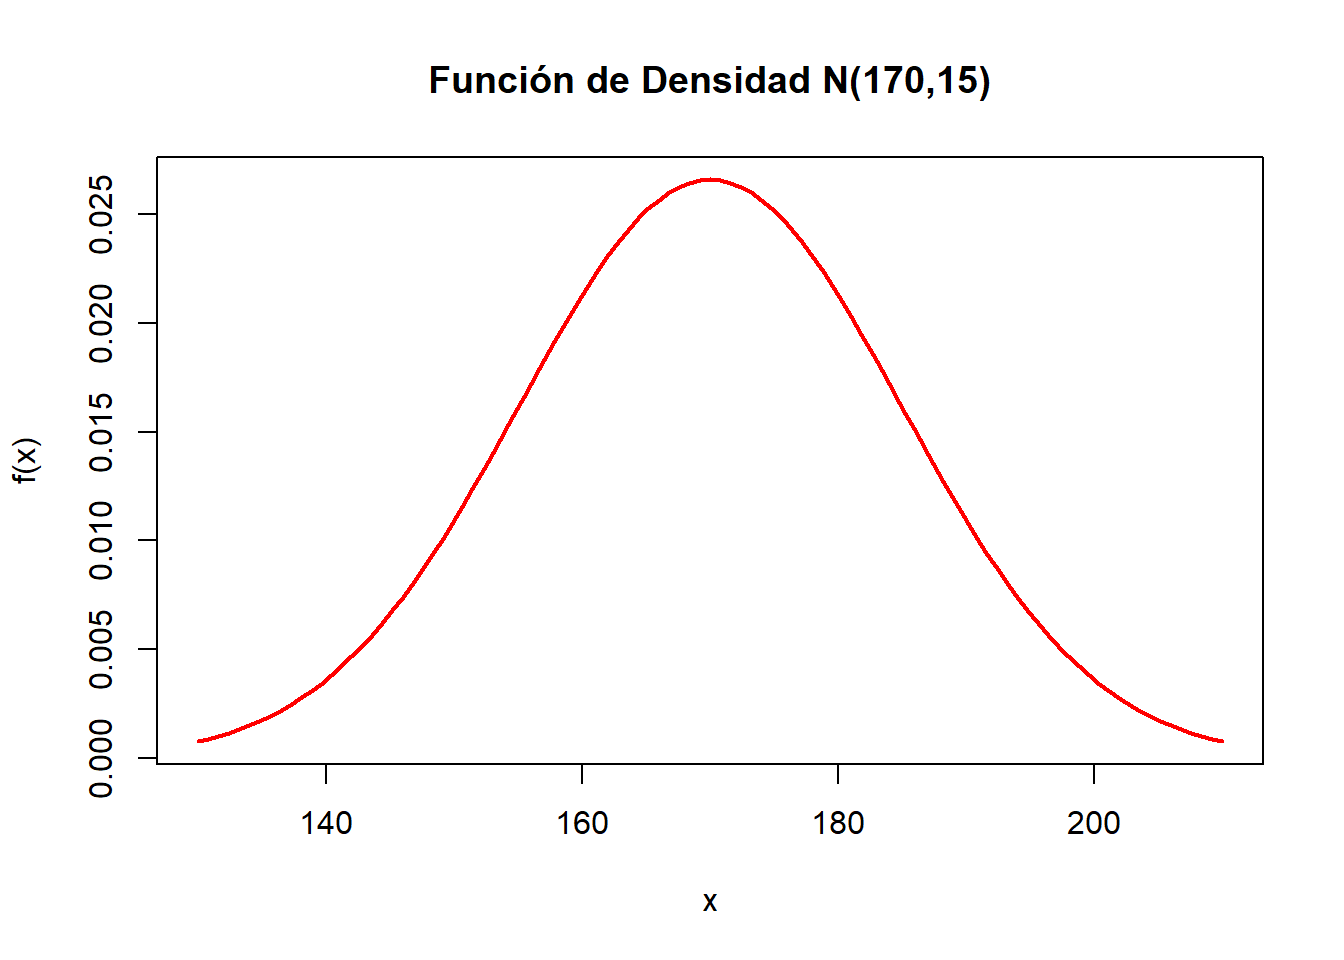
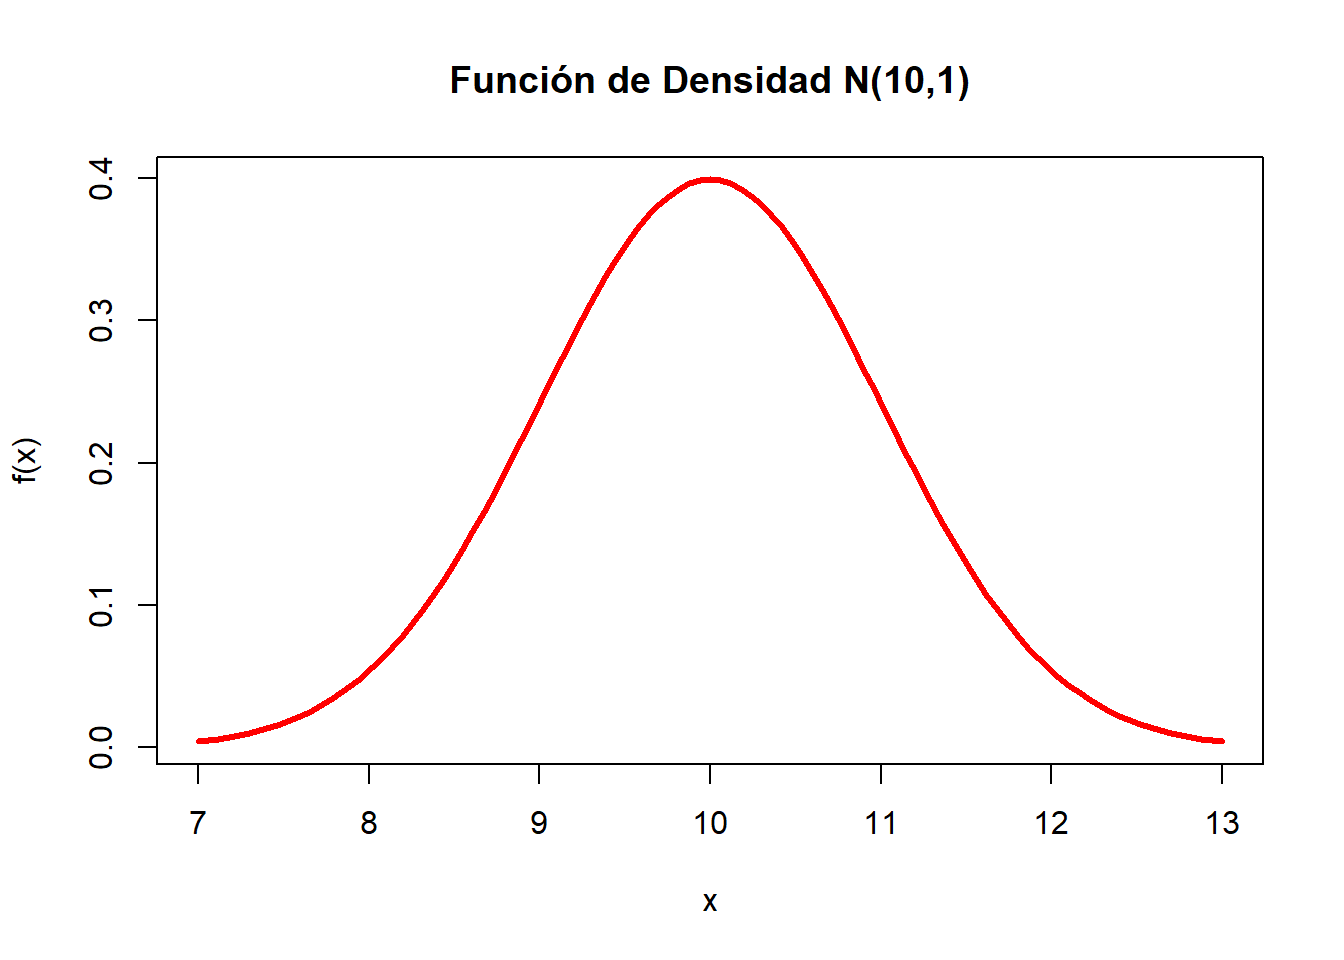
septimo:densidades

diff --git a/density.html b/density.html
@@ -249,24 +249,19 @@ $(document).ready(function () {
 </div>
 
 
-<p>En la estadística se trabaja con una alta gama de distribuciones discretas y continuas, de las cuales la mayorias de casos se usan las distribuciones continuas</p>
+<p>En la estadística se trabaja con una alta gama de distribuciones discretas y continuas, de las cuales en la mayorias de casos se usan las distribuciones continuas, como la distruibución log-normal, t.student, Chi-cuadrado, normal, entre otras.</p>
 <div id="funcion-de-densidad-de-una-distribucion-normal" class="section level5">
 <h5><strong>Función de densidad de una distribución Normal</strong></h5>
-<p>Una de las distribuciones mas utilizadas es la distribución normal, por lo cual programas como <strong>R</strong> tiene a disposición del usuario comandos predeterminados que permiten calcular la funación de</p>
-<p>Ahora se hará un ejemplo para ilustrar como se construye una función de densidad en <strong><em>R</em></strong>, en este caso se hará para una variable cuantitativa:</p>
-<p>Se generará una secuencia de números el cual seran los datos sobre los cuales se generará la función de densidad.</p>
-<div class="sourceCode"><pre class="sourceCode r"><code class="sourceCode r">x=<span class="st"> </span><span class="kw">seq</span>(<span class="dv">260</span>,<span class="dv">280</span>, <span class="dt">by=</span><span class="fl">0.5</span>)
-<span class="kw">dnorm</span>(x, <span class="dv">270</span>,<span class="dv">11</span>)</code></pre></div>
-<pre><code>##  [1] 0.02399147 0.02497780 0.02595102 0.02690650 0.02783958 0.02874556
-##  [7] 0.02961977 0.03045757 0.03125443 0.03200594 0.03270787 0.03335620
-## [13] 0.03394718 0.03447732 0.03494346 0.03534281 0.03567294 0.03593185
-## [19] 0.03611792 0.03623003 0.03626748 0.03623003 0.03611792 0.03593185
-## [25] 0.03567294 0.03534281 0.03494346 0.03447732 0.03394718 0.03335620
-## [31] 0.03270787 0.03200594 0.03125443 0.03045757 0.02961977 0.02874556
-## [37] 0.02783958 0.02690650 0.02595102 0.02497780 0.02399147</code></pre>
-<p>ahora se hará la gráfica de densidad</p>
-<div class="sourceCode"><pre class="sourceCode r"><code class="sourceCode r"><span class="kw">curve</span>(<span class="kw">dnorm</span>(x,<span class="dv">170</span>,<span class="dv">15</span>),<span class="dt">xlim=</span><span class="kw">c</span>(<span class="dv">130</span>,<span class="dv">210</span>),<span class="dt">col=</span><span class="st">&quot;red&quot;</span>,<span class="dt">lwd=</span><span class="dv">2</span>,
-      <span class="dt">xlab=</span><span class="st">&quot;x&quot;</span>,<span class="dt">ylab=</span><span class="st">&quot;f(x)&quot;</span>,<span class="dt">main=</span><span class="st">&quot;Función de Densidad N(170,15)&quot;</span>)</code></pre></div>
+<p>Ahora se realizará un ejemplo de la función de densidad de la distribución normal la cual tiene por fórmula:</p>
+<p><span class="math display">\[ f(x)=\frac{1}{\sqrt{2\pi\sigma}}e^{\frac{-(x-\mu)^2}{2\sigma^2}}\]</span>, donde <span class="math inline">\(-\infty&lt; x &lt; +\infty\)</span>, para una variable <span class="math inline">\(x\)</span> cuantitativa. Como encontrar y realizar graficas de densidad para esta variable es muy engorroso manualmente, utilizaremos el programa <code>R</code> que brinda el comando predeterminado <code>dnorm(x,mu,sigma)</code>, el cual encuentra la función de densidad de la variable <span class="math inline">\(x\)</span> bajo el <span class="math inline">\(\mu\)</span> y el <span class="math inline">\(\sigma\)</span> especificados por el investigador.</p>
+<p>Es importante aclarar que con <code>R</code> también posee otros comandos predeterminados para la distribución normal, tales como <code>pnorm,rnorm</code> y <code>qnorm</code>.</p>
+<p>Ahora se iniciará generando una muestra de tamaño 200 de una población normal de media 10 y desviación típica 1 .</p>
+<div class="sourceCode"><pre class="sourceCode r"><code class="sourceCode r">x&lt;-<span class="kw">rnorm</span>(<span class="dv">200</span>, <span class="dt">mean=</span> <span class="dv">10</span>, <span class="dt">sd=</span><span class="dv">1</span>)
+x</code></pre></div>
+<p>De esta muestra se puede obtener una descripción básica como la media muestra y la desviación estandar de <span class="math inline">\(x\)</span>.</p>
+<p>Ahora con la información que se tiene se generará del gráfico de densidad correspondiente:</p>
+<div class="sourceCode"><pre class="sourceCode r"><code class="sourceCode r"><span class="kw">curve</span>(<span class="kw">dnorm</span>(x,<span class="dv">10</span>,<span class="dv">1</span>), <span class="dt">from =</span> <span class="dv">7</span>, <span class="dt">to =</span> <span class="dv">13</span>, <span class="dt">col=</span><span class="st">&quot;red&quot;</span>,<span class="dt">lwd=</span><span class="dv">3</span>,
+      <span class="dt">xlab=</span><span class="st">&quot;x&quot;</span>,<span class="dt">ylab=</span><span class="st">&quot;f(x)&quot;</span>,<span class="dt">main=</span><span class="st">&quot;Función de Densidad N(10,1)&quot;</span>)</code></pre></div>
 <p><img src="density_files/figure-html/unnamed-chunk-3-1.png" width="672" /></p>
 </div>
 

diff --git a/index.html b/index.html
@@ -208,7 +208,7 @@ $(document).ready(function () {
 
 <p> </p>
 <div id="en-el-fondo-la-teoria-de-probabilidades-es-solo-sentido-comun-expresado-con-numeros.-pierre-simon-laplace." class="section level5">
-<h5>“En el fondo, la teoría de probabilidades es sólo sentido común expresado con números. <em>Pierre Simon Laplace</em>.”</h5>
+<h5>“En el fondo, la teoría de probabilidades es sólo sentido común expresado con números”. <em>Pierre Simon Laplace</em>.</h5>
 </div>
 <div id="bienvenidos" class="section level1">
 <h1><a href="about.html">¡¡BIENVENIDOS!!</a></h1>
